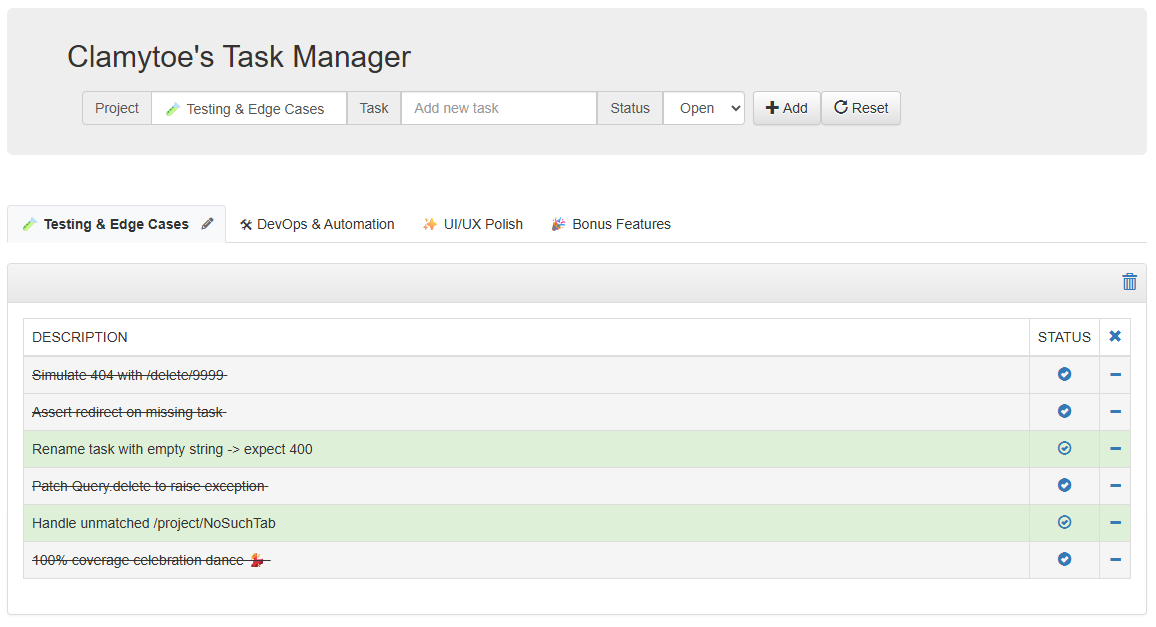
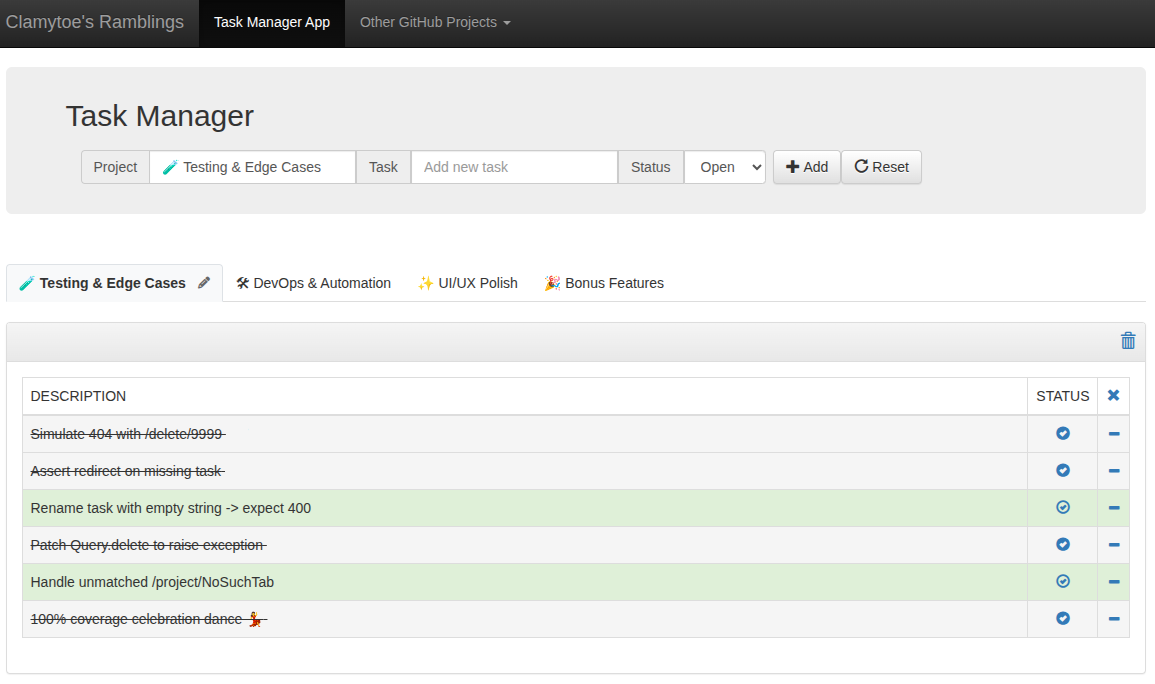
Updated the README.md with the new changes

diff --git a/README.md b/README.md
@@ -1,6 +1,6 @@
 # Task-Manager
 
-> *A no frills task manager that's really intuitive and simple to use that I created for a PyBites code challenge.*
+> *A no frills task manager that's really intuitive and simple to use.*
 
 ![Python version][python-version]
 ![Latest version][latest-version]
@@ -11,6 +11,7 @@
 [![License][license-image]][license-url]
 
 ## Index
+
 * [UI](#ui)
   * [New Project](#new-project)
   * [New Task](#new-task)
@@ -25,77 +26,106 @@
 * [Interface](#interface)
 * [REST API](REST_README.md)
 
-#### UI
+### UI
 
-##### New Project
+#### New Project
+
 ![New Project](img/project.png)
 
-Enter the project name that you want to store your tasks
-under.
+Enter the project name that you want to store your tasks under.
 
-##### New Task
+#### New Task
+
 ![New Task](img/task.png)
 
 Describe the task that you need to accomplish.
 
-##### Task Status
+#### Task Status
+
 ![Task Status](img/status.png)
 
 The task can be entered as open or close.
 
-##### Controls
+#### Controls
+
 ![Controls](img/controls.png)
 
-Clicking on the **Add** button will add the new task and create
-a new project if it does not already exist.
+Clicking on the **Add** button will add the new task and create a new project if it does not already exist.
 
 Clicking on the **Reset** button will reset the fields.
 
-##### Project tabs
+#### Project tabs
+
 ![Project Tabs](img/tabs.png)
 
-Any projects that are created will be displayed here in the
-tab area. Clickin on the tab switches you to that project.
+Any projects that are created will be displayed here in the tab area.
+Clickin on the tab switches you to that project.
 
-##### Remove Project
+#### Remove Project
+
 ![Remove Project](img/remove_project.png)
 
-Clicking on this will remove the currently active project
-along with all of it's corresponding tasks.
+Clicking on this will remove the currently active project along with all of it's corresponding tasks.
 
-##### Remove all tasks
+#### Remove all tasks
+
 ![Remove Tasks](img/remove_all_tasks.png)
 
-Clicking this will remove all tasks from the active project,
-but leave the project active.
+Clicking this will remove all tasks from the active project, but leave the project active.
 
-##### Status toggle
+#### Status toggle
+
 ![Status Toggle](img/status_toggle.png)
 
 Clicking this will toggle the tasks from open to close.
 
-##### Remove task
+#### Remove task
+
 ![Remove Task](img/remove_task.png)
 
 Clicking this will remove that tasks from the project.
 
 ## Installation
-First of all you have to prepare your environment. Select
-a location where you want to store the files. I will use 
-Projects as my example. I'm also on a linux machine, but
-you should be able to figure it out for any other platform.
+
+First of all you have to prepare your environment. Select a location where you want to store the files. I will use Projects as my example. I'm also on a linux machine, but you should be able to figure it out for any other platform.
+
+### Create a virtual environment
 
     mkdir Projects
     cd Projects
     git clone https://github.com/clamytoe/Task-Manager.git
+
+The rest depends on your preferred method of managing virtual environments.
+
+#### Conda env
+
+    conda env create -f environment.yml
+    make sync
+
+#### Python venv
+
     python3 -m venv venv
     source venv/bin/activate
-    pip install -r requirements.txt
-    python app.py
+    make sync
 
-Then simply open up a browser, Chrome/Chromium recommended,
-to [localhost:5000](http://localhost:5000/) and play around
-with it :).
+### Starting the server
+
+For the develpment server run:
+
+    make dev
+
+For the production server:
+
+    make prod
+
+### Using the application
+
+Simply open up a browser to:
+
+`dev`: [localhost:5000](http://localhost:5000/)
+`prod`: [localhost:8000](http://localhost:8000/)
+
+and play around with it :).
 
 ## Interface
 
@@ -103,9 +133,26 @@ with it :).
 
 ![ui-sample-2](img/ui-sample-2.png)
 
+## Makefile commands
 
-[python-version]:https://img.shields.io/badge/python-3.13.0-brightgreen.svg
-[latest-version]:https://img.shields.io/badge/version-0.2.1-blue.svg
+Use `make help` to see the commands that are available:
+
+    Task Manager — Makefile Commands
+    --------------------------------
+    make sync        Install all project dependencies using uv
+    make sync-dev    Install dev dependencies (pytest, coverage)
+    make dev         Start Flask in development mode (debug + reload)
+    make prod        Start production server using gunicorn
+    make test        Run tests
+    make cov         Run tests with coverage (terminal report)
+    make cov-html    Run tests with coverage (HTML report)
+    make lint        Run black, isort, and mypy checks
+    make format      Auto-format code with black and isort
+    make reset       Clean environment and reinstall everything
+    make clean       Remove caches and artifacts
+
+[python-version]:https://img.shields.io/badge/python-3.13.15-brightgreen.svg
+[latest-version]:https://img.shields.io/badge/version-0.3.0-blue.svg
 [issues-image]:https://img.shields.io/github/issues/clamytoe/Task-Manager.svg
 [issues-url]:https://github.com/clamytoe/Task-Manager/issues
 [codecov-image]:https://codecov.io/gh/clamytoe/Task-Manager/branch/master/graph/badge.svg
